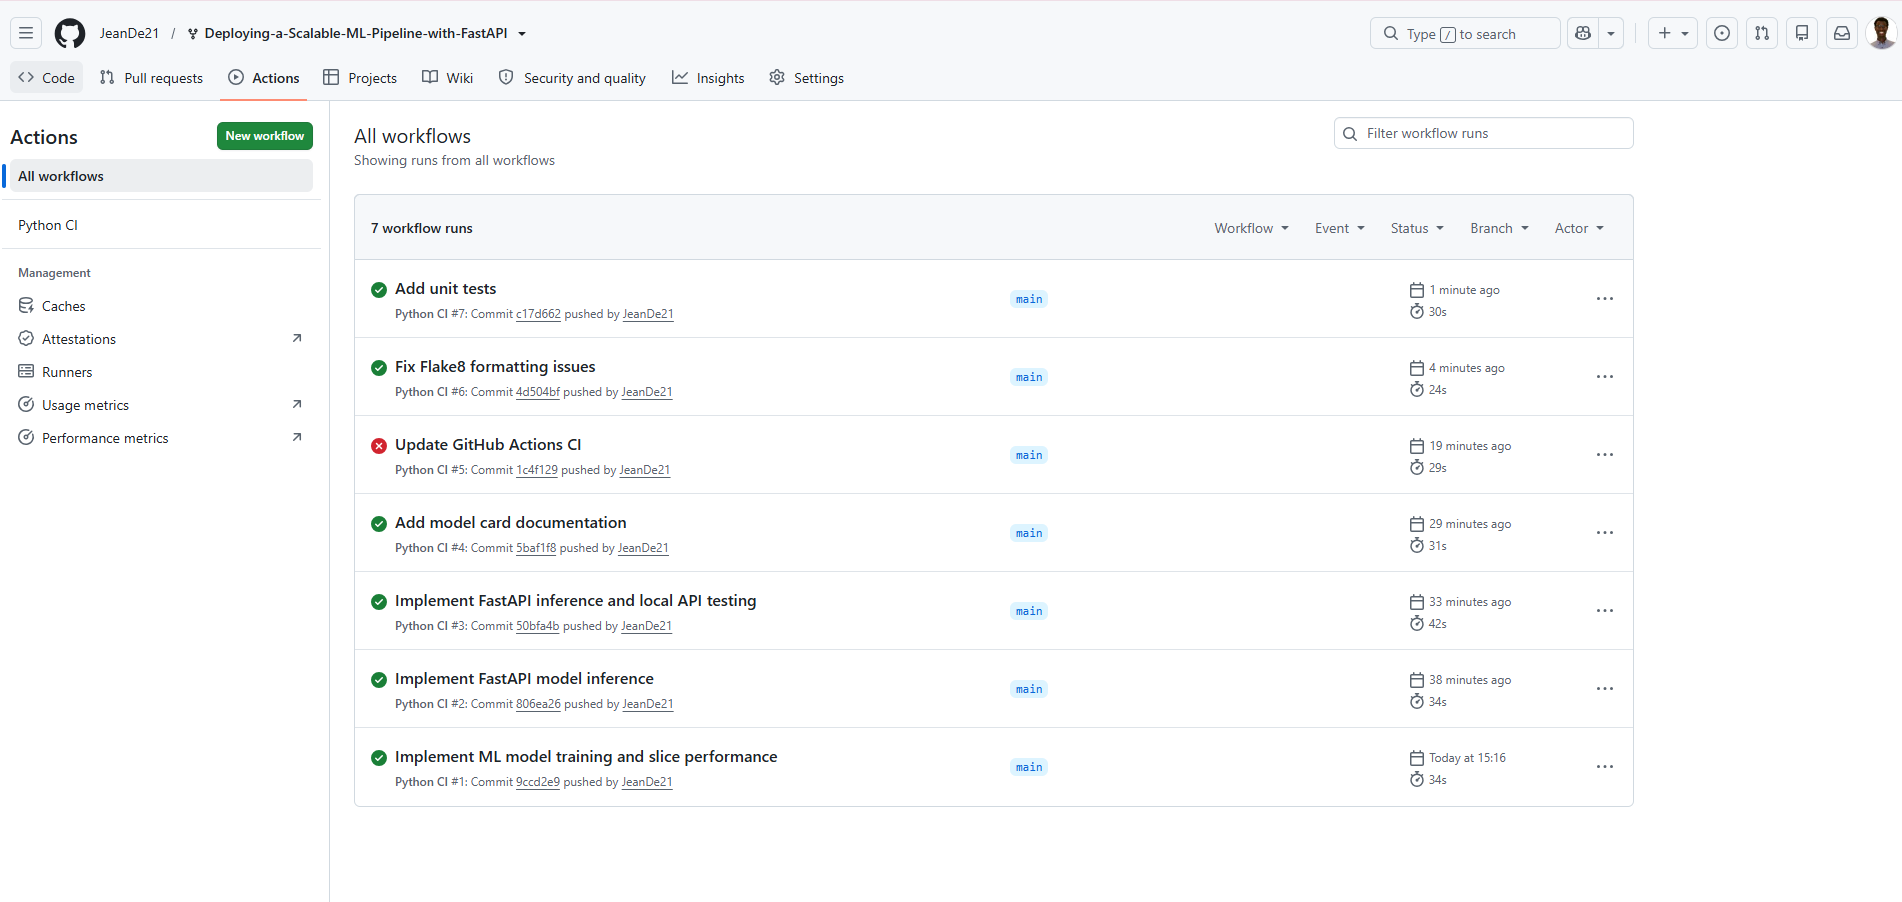
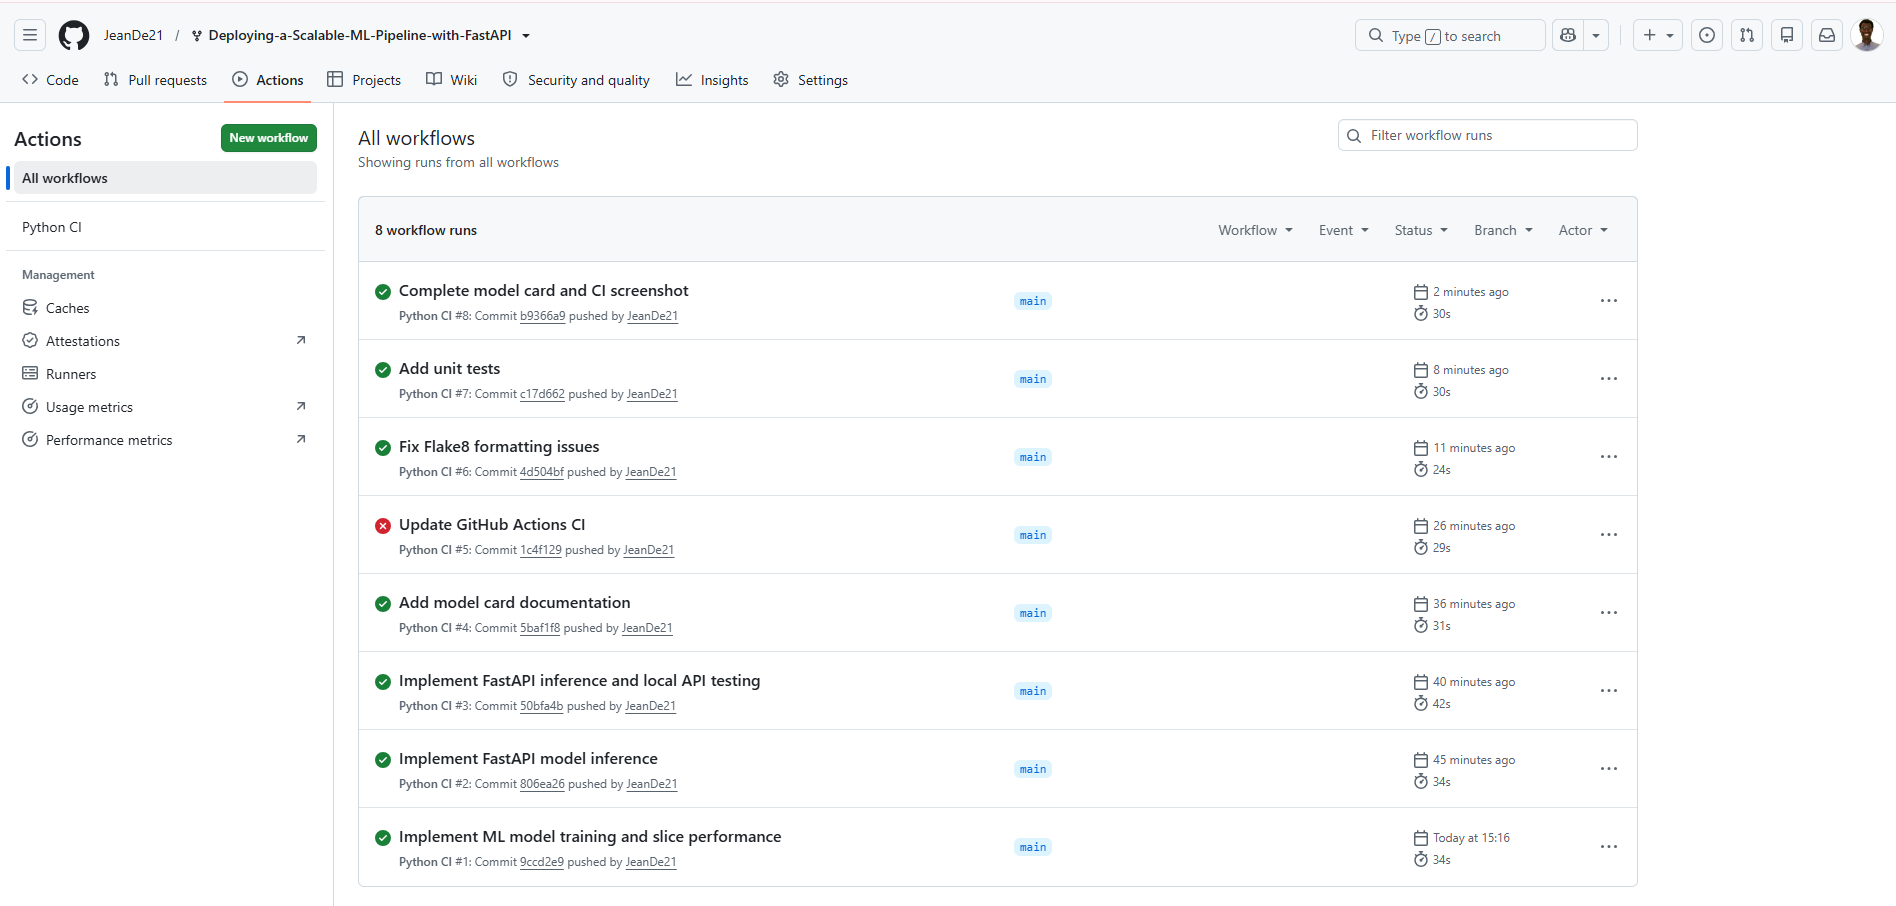
Update Readme file

diff --git a/README.md b/README.md
@@ -1,5 +1,7 @@
 Working in a command line environment is recommended for ease of use with git and dvc. If on Windows, WSL1 or 2 is recommended.
 
+Github Link: https://github.com/JeanDe21/Deploying-a-Scalable-ML-Pipeline-with-FastAPI.git
+
 # Environment Set up (pip or conda)
 * Option 1: use the supplied file `environment.yml` to create a new environment with conda
 * Option 2: use the supplied file `requirements.txt` to create a new environment with pip
